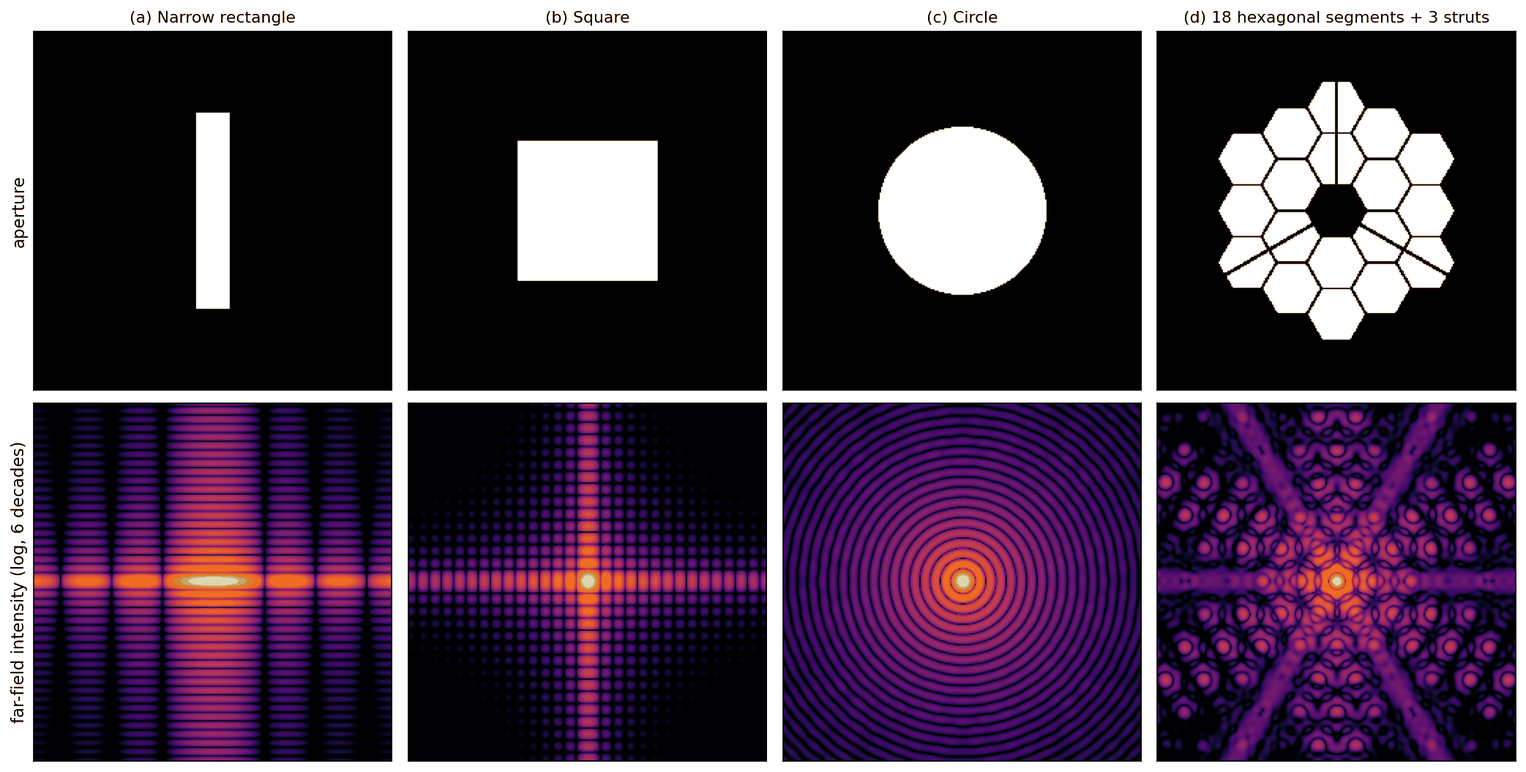
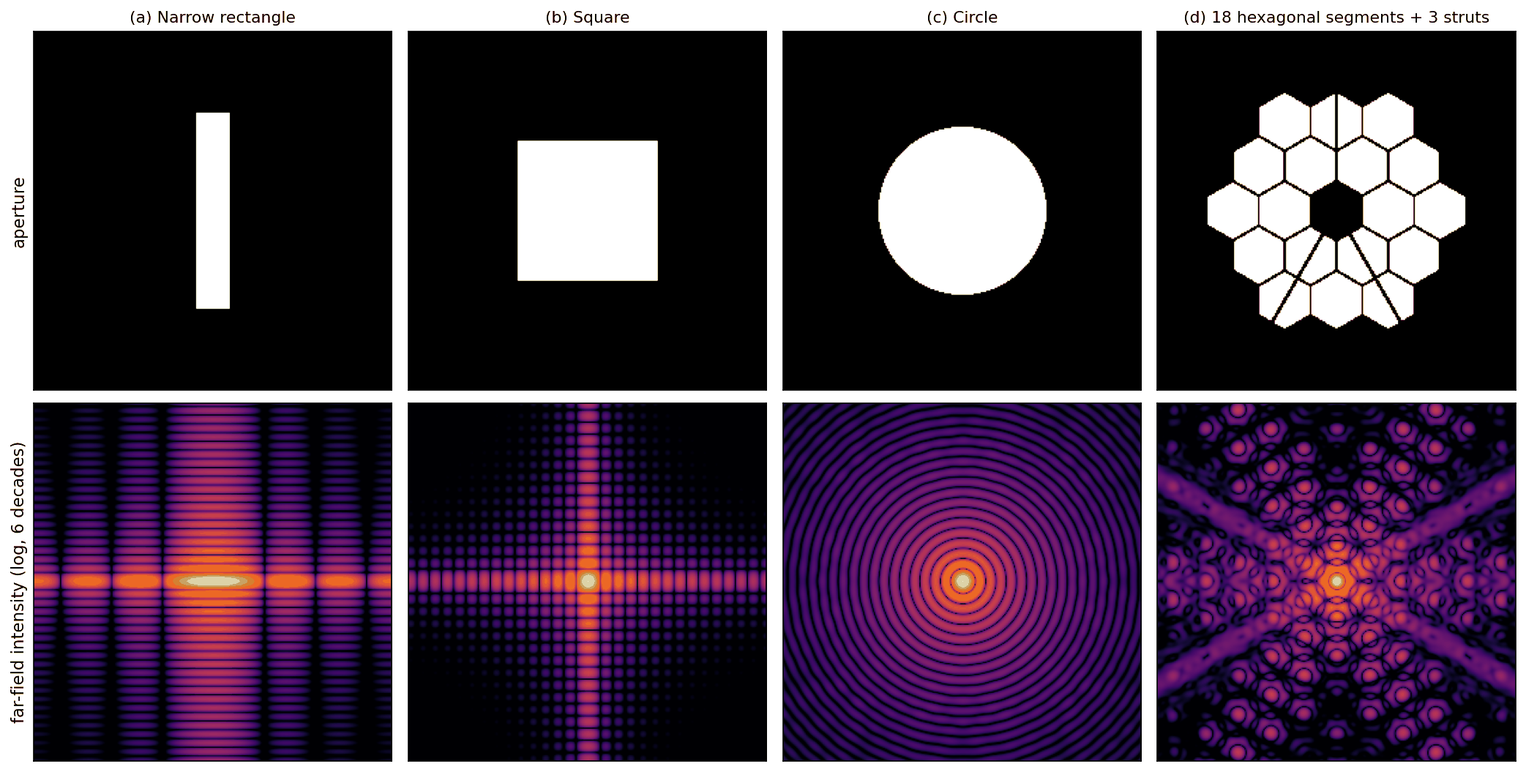
fix(post): wave-optics-diffraction — 점검 반영: 번역체·근거·그림, 그림 다시 생성
tech-writing-style 점검(2026-10-15) 반영:
- 번역체·어색한 문장 다듬기 (한·영)
- 그림·표와 맞지 않던 본문·캡션 서술 정정, 근거보다 넓던 결론을 실험 조건으로 한정
- 그림을 다시 그려야 하는 경미 항목은 따로 처리 예정
근거: _references/wave-optics-diffraction/audit-20261015.md (git 제외)

Changed region(s): [[0.7482, 0.5156, 0.9976, 1.0], [0.7794, 0.091, 0.9664, 0.455]]

diff --git a/_code/wave-optics-diffraction/generate_figures.py b/_code/wave-optics-diffraction/generate_figures.py
@@ -247,6 +247,19 @@ def figure4(L):
 
 # ------------------------------------------------------------------ 그림 5: 구멍 모양과 원거리 무늬
 
+def webb_pupil(n, strut_px=2.5):
+    """그림 6 사진과 같은 배치: 육각 조각의 윗변·아랫변이 수직(조각 배열을 90° 돌림), 받침대는 위로 하나, 아래 양쪽으로 둘."""
+    p = segmented_pupil(n, 17.5, gap_px=2.0, strut_px=0).T.astype(bool)
+    y, x = np.mgrid[:n, :n] - (n - 1) / 2
+    r = np.hypot(x, y)
+    for ang in (90, -120, -60):
+        a = np.radians(ang)
+        along = x * np.cos(a) + y * np.sin(a)
+        across = -x * np.sin(a) + y * np.cos(a)
+        p &= ~((along > 0) & (np.abs(across) < strut_px / 2) & (r < n / 2))
+    return p.astype(float)
+
+
 def figure5(L):
     n, pad = 256, 4
     y, x = np.mgrid[:n, :n] - (n - 1) / 2
@@ -254,7 +267,7 @@ def figure5(L):
         (((np.abs(x) <= 12) & (np.abs(y) <= 70)).astype(float), t(L, "(a) 가늘고 긴 직사각형", "(a) Narrow rectangle")),
         (((np.abs(x) <= 50) & (np.abs(y) <= 50)).astype(float), t(L, "(b) 정사각형", "(b) Square")),
         (circle_pupil(n, 60), t(L, "(c) 원", "(c) Circle")),
-        (segmented_pupil(n, 17.5, gap_px=2.0, strut_px=2.5), t(L, "(d) 육각 조각 18장 + 받침대 3개", "(d) 18 hexagonal segments + 3 struts")),
+        (webb_pupil(n), t(L, "(d) 육각 조각 18장 + 받침대 3개", "(d) 18 hexagonal segments + 3 struts")),
     ]
     fig, axes = plt.subplots(2, 4, figsize=(14, 7.2))
     for i, (p, title) in enumerate(shapes):

diff --git a/_posts/2026-12-05-wave-optics-diffraction-en.md b/_posts/2026-12-05-wave-optics-diffraction-en.md
@@ -17,7 +17,7 @@ Hang a coin-sized disk on a thread and light it with a small point source, and i
 <img src="/assets/img/posts/wave-optics-diffraction/ext-arago-spot.jpg" alt="Photograph of the bright spot (Arago spot) at the centre of a disk's shadow" width="460">
 _Figure 1. The shadow of a disk 5.8 mm in diameter. Sunlight was narrowed through a hole about 0.5 mm across to act as a point source, with 1.53 m from source to disk and 1.83 m from disk to the paper screen. The bright spot at the centre of the shadow is the Arago spot, and rainbow-coloured rings surround the shadow's edge. (Source: Aleksandr Berdnikov, [A photograph of the Arago spot](https://commons.wikimedia.org/wiki/File:A_photograph_of_the_Arago_spot.png), [CC BY-SA 4.0](https://creativecommons.org/licenses/by-sa/4.0))_
 
-The spot comes with a story. In 1818 the French Academy of Sciences ran a prize competition on diffraction. Fresnel (A. Fresnel) submitted a memoir that treated light as a wave and calculated diffraction. One of the judges, Poisson (S. D. Poisson), a supporter of the particle theory of light, drew a strange conclusion from Fresnel's theory. If the theory were right, he argued, the centre of a disk's shadow would have to be bright, which was absurd. Committee member Arago (F. Arago) did the experiment, and the spot was there. Fresnel won the prize, and the spot is now called the Arago spot or Poisson spot. Maraldi (G. F. Maraldi) had seen it about a century earlier, but the observation was forgotten [1, 2].
+The spot comes with a story. In 1818 the French Academy of Sciences ran a prize competition on diffraction. Augustin Fresnel submitted a memoir that treated light as a wave and calculated diffraction. One of the judges, Siméon Denis Poisson, a supporter of the particle theory of light, drew a strange conclusion from Fresnel's theory. If the theory were right, he argued, the centre of a disk's shadow would have to be bright, which was absurd. Committee member François Arago did the experiment, and the spot was there. Fresnel won the prize, and the spot is now called the Arago spot or Poisson spot. Giacomo Filippo Maraldi had seen it about a century earlier, but the observation was forgotten [1, 2].
 
 This post starts from that scene and answers three questions.
 
@@ -39,14 +39,14 @@ $$
 
 Here $U(Q)$ is the complex amplitude at a point $Q$ of the aperture, $r$ is the distance from $Q$ to the observation point $P$, $k = 2\pi/\lambda$, and $\theta$ is the angle between $QP$ and the aperture normal. In other words, each patch of the aperture sends out a small spherical wave $e^{ikr}/r$, and at the observation point all those arrows (the phasors of Part 1) are added up.
 
-The formula carries three things that are absent from Huygens' picture. First, $1/\lambda$: the strength of the secondary sources is inversely proportional to the wavelength. Second, $1/i$: the secondary sources lead the incident light in phase by 90° (with the time dependence taken as $$e^{-i\omega t}$$). Third, $\cos\theta$: the secondary sources radiate most strongly forward and weakly to the side. Fresnel assumed the obliquity factor to make his results fit, while $1/\lambda$ and the 90° phase were shown by Stokes (G. Stokes) in 1849 from consistency with energy conservation. In 1882 Kirchhoff (G. Kirchhoff) derived these factors together from the wave equation. His obliquity factor is $(1+\cos\theta)/2$; the $\cos\theta$ in the formula above is the Rayleigh–Sommerfeld one. The first two factors can be understood through one fact: the field seen from afar is proportional to the time derivative of the field in the aperture [3]. Differentiating a sine wave multiplies its amplitude by the frequency (hence $1/\lambda$) and advances its phase by 90°.
+The formula carries three things that are absent from Huygens' picture. First, $1/\lambda$: the strength of the secondary sources is inversely proportional to the wavelength. Second, $1/i$: the secondary sources lead the incident light in phase by 90° (with the time dependence taken as $$e^{-i\omega t}$$). Third, $\cos\theta$: the secondary sources radiate most strongly forward and weakly to the side. Fresnel assumed the obliquity factor to make his results fit, while $1/\lambda$ and the 90° phase were shown by George Gabriel Stokes in 1849 from consistency with energy conservation. In 1882 Gustav Kirchhoff derived these factors together from the wave equation. His obliquity factor is $(1+\cos\theta)/2$; the $\cos\theta$ in the formula above is the Rayleigh–Sommerfeld one. The first two factors can be understood through one fact: the field seen from afar is proportional to the time derivative of the field in the aperture [3]. Differentiating a sine wave multiplies its amplitude by the frequency (hence $1/\lambda$) and advances its phase by 90°.
 
-One point is worth pausing on. Nothing in the aperture actually emits light. The real cause is the charges oscillating at the edge of the screen. The Huygens–Fresnel principle is a convenient device that replaces their effect with fictitious sources over the aperture. Kirchhoff's formula has a weakness, its boundary conditions contradict each other, and the Rayleigh–Sommerfeld formula fixes it. The two differ only in the obliquity factor, $(1+\cos\theta)/2$ versus $\cos\theta$, and give the same answer at small angles [3]. For this theory, which treats light as a single scalar rather than a vector, to hold, the aperture must be much larger than the wavelength and we must look more than a few wavelengths away from it [3]. This post stays within that range.
+One point is worth pausing on. Nothing in the aperture actually emits light. The real cause is the charges oscillating at the edge of the screen. The Huygens–Fresnel principle is a convenient device that replaces their effect with fictitious sources over the aperture. Kirchhoff's formula has a weakness: its boundary conditions contradict each other. The Rayleigh–Sommerfeld formula fixes this. The two differ only in the obliquity factor, $(1+\cos\theta)/2$ versus $\cos\theta$, and give the same answer at small angles [3]. For this theory, which treats light as a single scalar rather than a vector, to hold, the aperture must be much larger than the wavelength and we must look more than a few wavelengths away from it [3]. This post stays within that range.
 
 What do we get if we actually carry out the integral? Figure 2 shows a 100 µm wide slit illuminated by a plane wave, with the intensity behind it calculated as a function of distance.
 
 <img src="/assets/img/posts/wave-optics-diffraction/en/fig2-slit-near-to-far.png" alt="Light spreading behind a 100 µm slit with distance, and intensity cross-sections at four distances" width="780">
-_Figure 2. Intensity behind a slit 100 µm wide (half-width a = 50 µm) illuminated by a 0.5 µm plane wave. (a) Side view out to 60 mm behind the slit; the white dashes are the geometric shadow boundary. (b)–(e) Cross-sections at distances where the Fresnel number $$N_F = a^2/\lambda z$$ is 10, 1, 0.5 and 0.1. Grey is the geometrical-optics answer, red is the diffraction calculation and the black dashes are the Fraunhofer approximation. Just behind the slit, ripples sit on the shape of the shadow; further away the shape turns into a sinc² pattern and widens._
+_Figure 2. Intensity behind a slit 100 µm wide (half-width a = 50 µm) illuminated by a 0.5 µm plane wave. (a) Side view out to 60 mm behind the slit (square root of intensity, corresponding to the amplitude); the white dashes are the geometric shadow boundary. (b)–(e) Cross-sections at distances where the Fresnel number $$N_F = a^2/\lambda z$$ is 10, 1, 0.5 and 0.1. Grey is the geometrical-optics answer, red is the diffraction calculation and the black dashes are the Fraunhofer approximation. Just behind the slit, ripples sit on the shape of the shadow; further away the shape turns into a sinc² pattern and widens._
 
 Figure 2 reads in three stages. Just behind the slit (b), the light keeps nearly the shape of the slit, with ripples only near the edges. A little further (c), the ripples from the edges spread to the middle and change the shape substantially. Far away (e), the light spreads much wider than the slit, and from then on it only grows in size without changing shape. The first two stages are called Fresnel diffraction and the last Fraunhofer diffraction. They are not different phenomena but the same integral seen at different distances [4].
 
@@ -87,13 +87,13 @@ Now consider the disk. The disk blocks the first few zones. The light on the axi
 
 Figure 3(c) calculates the same geometry as Figure 1. The disk covers about 18 zones ($N_F \approx 18$). The intensity at the centre of the shadow is 1.00 times the value without the disk, and the first dark ring of the spot has a radius of 0.13 mm on the screen. The spot in the photograph looks larger because the source hole (0.5 mm) is imaged as a 0.6 mm blur on the screen and sunlight contains many wavelengths. The bright fringes outside the shadow also come out of the calculation.
 
-Knowing the zones also lets us focus light without a lens. Cover all the even-numbered zones and leave only the odd ones open, and the contributions of the remaining zones all add in the same direction. This is called a zone plate, and Rayleigh (Lord Rayleigh) first conceived it in 1871 (in an unpublished note), with Soret (J. L. Soret) publishing it in 1875 [1]. Cut the zone radii as $r_m = \sqrt{m\lambda f}$ and a focus appears at distance $f = r_1^2/\lambda$. Each open zone adds an amplitude of 2, so opening 20 odd zones gives an amplitude of 40 and an intensity 1600 times larger (Figure 3(d)) [1]. The same plate also makes foci at $f/3$, $f/5$, $f/7$, …. Seen from distance $f/3$, each zone of the plate covers three zones at that distance; two of the three cancel and one remains. The on-axis intensity is therefore the same as at $f$, but the focus is narrower by the same factor and collects less energy. Because the focal length is inversely proportional to the wavelength, the chromatic aberration is also large. Even so, zone plates replace lenses in the X-ray region. At X-ray wavelengths the refractive index of matter is very close to 1, which makes refractive lenses hard to build.
+Knowing the zones also lets us focus light without a lens. Cover all the even-numbered zones and leave only the odd ones open, and the contributions of the remaining zones all add in the same direction. This is called a zone plate, and Lord Rayleigh first conceived it in 1871 (in an unpublished note), with Jacques-Louis Soret publishing it in 1875 [1]. Cut the zone radii as $r_m = \sqrt{m\lambda f}$ and a focus appears at distance $f = r_1^2/\lambda$. Each open zone adds an amplitude of 2, so opening 20 odd zones gives an amplitude of 40 and an intensity 1600 times larger (Figure 3(d)) [1]. The same plate also makes foci at $f/3$, $f/5$, $f/7$, …. Seen from distance $f/3$, each zone of the plate covers three zones at that distance; two of the three cancel and one remains. The on-axis intensity is therefore the same as at $f$, but the focus is narrower by the same factor and collects less energy. Because the focal length is inversely proportional to the wavelength, the chromatic aberration is also large. Even so, zone plates replace lenses in the X-ray region. At X-ray wavelengths the refractive index of matter is very close to 1, which makes refractive lenses hard to build.
 
 ## 3. Where exactly is the edge of a shadow?
 
 When a knife edge blocks half the light, where exactly is the boundary of its shadow? For anyone measuring the edge of an object in an image taken with coherent light, this is a practical question.
 
-A straight edge has no circular symmetry, so the zones are strips parallel to the edge rather than concentric circles. Chaining the strips' contributions gives the Cornu spiral of Figure 4(c), an S-shaped curve joining two eyes. The amplitude at an observation point is the length of the arrow from a point on the curve to the upper eye. As the observation point moves into the shadow, the starting point moves toward the upper eye and the arrow shortens. As it moves into the lit side, the starting point travels along the lower spiral and the arrow length rises and falls.
+A straight edge has no circular symmetry, so the zones are strips parallel to the edge rather than concentric circles. Chaining the strips' contributions gives the Cornu spiral of Figure 4(c), an S-shaped curve joining the two points it spirals into (the "eyes", the white circles in Figure 4(c)). The amplitude at an observation point is the length of the arrow from a point on the curve to the upper eye. As the observation point moves into the shadow, the starting point moves toward the upper eye and the arrow shortens. As it moves into the lit side, the starting point travels along the lower spiral and the arrow length rises and falls.
 
 <img src="/assets/img/posts/wave-optics-diffraction/en/fig4-straight-edge.png" alt="Intensity behind a knife edge, the curve rescaled by √(λz), and the Cornu spiral" width="780">
 _Figure 4. (a) Intensity at three distances behind a straight edge illuminated by a plane wave (0.5 µm). x = 0 is the geometric shadow boundary, and the negative side is the shadow. (b) Rescaling the horizontal axis to $w$, proportional to $\sqrt{\lambda z}$, makes the three curves collapse onto one. The intensity is 1/4 at the boundary and 1.37 at the first maximum. (c) The Cornu spiral. The amplitude at an observation point is the length of the arrow from the marked point to the upper eye (blue: boundary, red: first maximum, green: in the shadow, w = −1)._
@@ -102,7 +102,7 @@ Three things can be read from Figure 4. First, the intensity at the geometric bo
 
 The first fact has a direct practical use. When viewing an edge with coherent light, taking the edge where the intensity is half (50 %) shifts it away from the shadow. With coherent light the edge is where the amplitude is half, which is where the intensity is 1/4. The same happens when a lens forms the image with coherent illumination, whereas with incoherent illumination 50 % is correct. This difference returns in Part 4 on Fourier imaging. Methods for reading an edge in an image more precisely than a pixel are covered in [Metrology Image Processing 4](/en/posts/imgproc-edge-subpixel/). When applying them to a coherent image, the reference level has to be set again first.
 
-There is one more principle that pairs with the edge. Babinet (J. Babinet) pointed it out in 1837, and it concerns two screens that are each other's inverse, such as an aperture and an opaque screen of the same shape [2]. The diffraction integral is linear, so adding the fields made by each screen gives the unobstructed plane wave. In the Fraunhofer region the unobstructed plane wave gathers only at a single point (the geometrical image point) and is zero in all other directions. Outside that point, therefore, the fields of the two screens have the same magnitude and opposite sign. In other words, their intensity patterns are identical. This is Babinet's principle. In the Fresnel region only the sum of the fields holds, and the intensity patterns are not the same [1].
+There is one more principle that pairs with the edge. Jacques Babinet pointed it out in 1837, and it concerns two screens that are each other's inverse, such as an aperture and an opaque screen of the same shape [2]. The diffraction integral is linear, so adding the fields made by each screen gives the unobstructed plane wave. In the Fraunhofer region the unobstructed plane wave gathers only at a single point (the geometrical image point) and is zero in all other directions. Outside that point, therefore, the fields of the two screens have the same magnitude and opposite sign. In other words, their intensity patterns are identical. This is Babinet's principle. In the Fresnel region only the sum of the fields holds, and the intensity patterns are not the same [1].
 
 Thanks to this principle, the diameter of a hair or a thin wire can be measured with a single laser. Since it makes the same pattern as a slit of the same width, measuring the spacing of the zeros with the slit formula of the next section gives the diameter.
 
@@ -135,20 +135,20 @@ Here $\theta$ is the angle between the observation direction and the axis. The f
 Figure 5 calculates four aperture shapes and their far-field patterns.
 
 <img src="/assets/img/posts/wave-optics-diffraction/en/fig5-aperture-far-field.png" alt="A narrow rectangle, a square, a circle and a segmented hexagonal mirror aperture, with their far-field diffraction patterns" width="780">
-_Figure 5. Top row: apertures; bottom row: their far-field intensity (log scale, six decades). (a) A rectangle narrow in the horizontal direction spreads widely in the horizontal direction. (b) A square spreads in a cross perpendicular to its two pairs of sides. (c) A circle makes concentric rings. (d) An aperture made of 18 hexagonal segments and 3 secondary-mirror struts, like the Webb Space Telescope. Six spikes stand perpendicular to the three directions in which straight edges are most common, and the vertical strut adds a horizontal spike._
+_Figure 5. Top row: apertures; bottom row: their far-field intensity (log scale, six decades). (a) A rectangle narrow in the horizontal direction spreads widely in the horizontal direction. (b) A square spreads in a cross perpendicular to its two pairs of sides. (c) A circle makes concentric rings. (d) An aperture made of 18 hexagonal segments and 3 secondary-mirror struts, like the Webb Space Telescope. The segments are placed with their top and bottom edges horizontal. Thick spikes stand perpendicular to the hexagon's straight edges, that is, at ±30° from the horizontal._
 
 Two rules can be read from Figure 5. First, the pattern is wide in the direction in which the aperture is narrow (a). Second, a straight edge sends out a spike perpendicular to itself (b, d). The secondary sources lined up along a straight edge cancel each other in directions parallel to the edge, but not in the direction perpendicular to it. That is also why street lamps shine as stars in night photographs: the straight edges of the camera's aperture blades make the spikes.
 
 <img src="/assets/img/posts/wave-optics-diffraction/ext-webb-focused-star.jpg" alt="A star imaged by the Webb Space Telescope after mirror alignment, with eight diffraction spikes" width="640">
 _Figure 6. A star imaged by the Webb Space Telescope after it completed primary-mirror alignment (fine phasing) on 11 March 2022. The six thick spikes come from the straight edges of the hexagonal mirror segments, and the two thin horizontal spikes come from the vertical strut. (Source: NASA/STScI, [Webb's First Image of Focused Star](https://commons.wikimedia.org/wiki/File:Webb%27s_First_Image_of_Focused_Star_%28potm2203a%29.tiff), [CC BY 4.0](https://creativecommons.org/licenses/by/4.0))_
 
-Figure 6 is the real thing. Webb's eight spikes are made by the hexagonal mirror segments and the struts [6]. Compared with the calculation in Figure 5(d), the number and directions of the spikes match exactly: six perpendicular to the hexagon edges, and two horizontal ones perpendicular to the vertical strut. The two lower struts run parallel to hexagon edges, so they make no spikes of their own; theirs partly overlap the spikes from the hexagon edges. For astronomers, the shape of these spikes is a fingerprint of the telescope's aperture.
+Figure 6 is the real thing. Webb's eight spikes are made by the hexagonal mirror segments and the struts [6]. Figure 5(d) was calculated with the hexagons placed in the same orientation as in the photograph, so the thick spikes at ±30° from the horizontal stand in the same directions as in the photograph. The two thin horizontal spikes in the photograph are perpendicular to the vertical strut. The two lower struts run parallel to hexagon edges, so they make no spikes of their own; theirs partly overlap the spikes from the hexagon edges. For astronomers, the shape of these spikes is a fingerprint of the telescope's aperture.
 
 The link to Part 2 also appears here. The van Cittert–Zernike theorem said that the spatial degree of coherence is the Fourier transform of the source's brightness distribution. This section says that the far field is the Fourier transform of the aperture function. The same mathematics sets coherence on one side and diffraction patterns on the other. That is why the degree of coherence of a round star and the diffraction pattern of a round aperture are both $2J_1(x)/x$. The next section is about that round aperture.
 
 ## 5. How small a spot can a round aperture form?
 
-The apertures of telescopes and microscopes are usually round. What does the far-field pattern of a round aperture look like, and what does its size determine? Computing the Fourier transform of a circle gives the first-order Bessel function $J_1$. Airy (G. B. Airy) first obtained the result in 1835 [2].
+The apertures of telescopes and microscopes are usually round. What does the far-field pattern of a round aperture look like, and what does its size determine? Computing the Fourier transform of a circle gives the first-order Bessel function $J_1$. George Biddell Airy first obtained the result in 1835 [2].
 
 $$
 I(\theta) = I_0\left[\frac{2J_1(x)}{x}\right]^2,\qquad x = \frac{\pi D\sin\theta}{\lambda}
@@ -160,7 +160,7 @@ $$
 \sin\theta_1 = 1.22\,\frac{\lambda}{D}
 $$
 
-In other words, it is 22 % larger than the slit's $\lambda/b$. A circle narrows toward its edge, so it behaves like an effectively narrower aperture than a slit of the same width. When a lens forms this pattern in its focal plane, the angle becomes a distance and the radius of the first ring becomes $1.22\lambda f/D$. Figure 7 is a real pattern.
+This is 22 % larger than the slit's $\lambda/b$. A circle narrows toward its edge, so it behaves like an effectively narrower aperture than a slit of the same width. When a lens forms this pattern in its focal plane, the angle becomes a distance and the radius of the first ring becomes $1.22\lambda f/D$. Figure 7 is a real pattern.
 
 <img src="/assets/img/posts/wave-optics-diffraction/ext-pinhole-airy.jpg" alt="Photograph of the Airy pattern of a 0.09 mm pinhole illuminated by a red laser" width="600">
 _Figure 7. The Airy pattern of a 0.09 mm diameter pinhole illuminated by a red laser, photographed 65 mm behind it. The exposure saturates the central disk so that dozens of outer rings show. The photograph is 17.3 mm wide. (Source: Bautsch, [Beugungsscheibchen.k.720](https://commons.wikimedia.org/wiki/File:Beugungsscheibchen.k.720.jpg), [CC0](https://creativecommons.org/publicdomain/zero/1.0/deed.en))_
@@ -200,7 +200,7 @@ Here $N = f/D$ is the f-number. In other words, the depth of focus is proportion
 
 ## 6. What changes when there are many slits?
 
-Hold a CD in sunlight and you see a rainbow (Figure 9). The information-bearing track on a CD's surface is wound in a tight spiral. Neighbouring turns of the track act like many slits placed side by side. What changes when there are many slits?
+Shine white light on a CD and you see a rainbow (Figure 9). The information-bearing track on a CD's surface is wound in a tight spiral. Neighbouring turns of the track act like many slits placed side by side. What changes when there are many slits?
 
 <img src="/assets/img/posts/wave-optics-diffraction/ext-cd-rainbow.jpg" alt="Rainbow-coloured rings made by light reflected from a CD and split by wavelength" width="460">
 _Figure 9. Diffraction from the surface of a CD. The closely spaced track acts as a reflection grating and sends white light to different angles by wavelength. (Source: Hapecko, [CD rainbow](https://commons.wikimedia.org/wiki/File:CD_rainbow.jpg), [CC BY-SA 4.0](https://creativecommons.org/licenses/by-sa/4.0))_
@@ -230,9 +230,9 @@ $$
 \frac{\lambda}{\Delta\lambda} = mN
 $$
 
-In other words, the resolving power is the product of the diffraction order and the number of illuminated lines. The sodium D lines are 0.597 nm apart, so $\lambda/\Delta\lambda \approx 987$. In the second order, 494 lines are enough [1]. Figure 10(b) shows this. With 400 lines ($mN$ = 800) the two lines form one lump; with 600 lines ($mN$ = 1200) they split in two. A grating 15 cm long with 90,000 lines has $mN$ = 180,000 in the second order and resolves two lines 0.003 nm apart near 540 nm [1]. Where the Fabry–Pérot of Part 1 overlapped beams bouncing hundreds of times off highly reflective mirrors, the grating does the same with tens of thousands of slits side by side. The Fourier transform spectroscopy of Part 2 obtained its resolution by scanning a long path difference. All three are alike in that the resolution is set by how long a path difference the interfering light spans. For a grating that path difference is the one between light from its two ends, $Nd(\sin\theta_m - \sin\theta_i)$. On the way in and on the way out it cannot exceed the grating width $W$, so this value cannot be longer than $2W$, and the resolving power cannot exceed $2W/\lambda$ [2].
+In other words, the resolving power is the product of the diffraction order and the number of illuminated lines. The sodium D lines are 0.597 nm apart, so $\lambda/\Delta\lambda \approx 987$. In the second order, 494 lines are enough [1]. Figure 10(b) shows this. With 400 lines ($mN$ = 800) the two lines form one lump; with 600 lines ($mN$ = 1200) they split in two. A grating 15 cm long with 90,000 lines has $mN$ = 180,000 in the second order and resolves two lines 0.003 nm apart near 540 nm [1]. Where the Fabry–Pérot of Part 1 overlapped beams bouncing hundreds of times off highly reflective mirrors, the grating does the same with tens of thousands of slits side by side. The Fourier transform spectroscopy of Part 2 obtained its resolution by scanning a long path difference. All three are alike in that the resolution is set by how long a path difference the interfering light spans. For a grating that path difference is the one between light from its two ends, $$Nd(\sin\theta_m - \sin\theta_i)$$. The path difference on the way in, $$Nd\sin\theta_i$$, and on the way out, $$Nd\sin\theta_m$$, cannot each exceed the grating width $W$, so the total cannot exceed $2W$. The resolving power therefore cannot exceed $2W/\lambda$ [2].
 
-Gratings have their price too. Higher orders give better resolution, but the $m$-th order of wavelength $\lambda$ and the $(m+1)$-th order of wavelength $\lambda m/(m+1)$ overlap at the same angle. The wavelength range free of overlap (the free spectral range) is $\lambda/m$ [1]. And most of the light goes into the useless zeroth order. Calculating the efficiency of thin gratings, an amplitude grating whose transmittance varies sinusoidally sends at most 6.25 % into the first order, while a phase grating that varies only the phase sinusoidally sends at most 33.8 % [3]. Practical gratings therefore cut the grooves into a sawtooth profile to steer light into the desired order. This is called blazing. The idea of pulling energy out of the zeroth order came from Rayleigh in 1888, and Wood (R. W. Wood) actually ruled such gratings in 1910 [1].
+Gratings have their price too. Higher orders give better resolution, but the $m$-th order of wavelength $\lambda$ and the $(m+1)$-th order of wavelength $\lambda m/(m+1)$ overlap at the same angle. The wavelength range free of overlap (the free spectral range) is $\lambda/m$ [1]. And most of the light goes into the useless zeroth order. Calculating the efficiency of thin gratings, an amplitude grating whose transmittance varies sinusoidally sends at most 6.25 % into the first order, while a phase grating that varies only the phase sinusoidally sends at most 33.8 % [3]. Practical gratings therefore cut the grooves into a sawtooth profile to steer light into the desired order. This is called blazing. The idea of pulling energy out of the zeroth order came from Rayleigh in 1888, and Robert W. Wood actually ruled such gratings in 1910 [1].
 
 ## 7. How is diffraction computed?
 
@@ -257,7 +257,7 @@ $$
 H(f_x, f_y) = \exp\!\left(i 2\pi z\sqrt{\frac{1}{\lambda^2} - f_x^2 - f_y^2}\right)
 $$
 
-Here $f_x, f_y$ are spatial frequencies. Components with a positive quantity under the square root change only in phase and keep their magnitude. For a negative quantity the exponent becomes real and the magnitude shrinks (Figure 11(c)). In other words, free space is a filter that passes only spatial frequencies up to $1/\lambda$. Under normal-incidence illumination, information in patterns with periods shorter than the wavelength vanishes before travelling even one wavelength from the object, and a lens far from the object cannot see such periods. Under oblique illumination the illumination frequency adds to that of the object pattern, so periods down to $\lambda/2$ still propagate. This is the fundamental limit of resolution, roughly $\lambda/2$ [3]. The $\lambda/D$ limit of Section 5 arises because the lens accepts only some of these plane waves, and this limit remains even if the lens accepts every direction and the illumination is oblique. Getting past it requires bringing a probe closer to the object than a wavelength to pick up the evanescent waves directly. Near-field microscopes do exactly that [3, 4].
+Here $f_x, f_y$ are spatial frequencies. Components with a positive quantity under the square root change only in phase and keep their magnitude. For a negative quantity the exponent becomes real and the magnitude shrinks (Figure 11(c)). In other words, free space is a filter that passes only spatial frequencies up to $1/\lambda$. Under normal-incidence illumination, information in patterns with periods shorter than the wavelength vanishes before travelling even one wavelength from the object, and a lens far from the object cannot see such periods. Under oblique illumination the illumination frequency adds to that of the object pattern, so periods down to $\lambda/2$ still propagate. This is the fundamental limit of resolution, roughly $\lambda/2$ [3]. The $\lambda/D$ limit of Section 5 arises because the lens accepts only some of these plane waves, and the $\lambda/2$ limit remains even if the lens accepts every direction and the illumination is oblique. Getting past it requires bringing a probe closer to the object than a wavelength to pick up the evanescent waves directly. Near-field microscopes do exactly that [3, 4].
 
 Treating $f$ as small in the transfer function's square root and keeping the binomial expansion to the second term gives $e^{ikz}\exp[-i\pi\lambda z(f_x^2+f_y^2)]$. This is the same as the Fresnel approximation of Section 4 [3]. In other words, the Fresnel approximation is a paraxial approximation that handles only small angles. So as long as the angles are small, it works well even close to the aperture, regardless of how large $N_F$ is. For a 1 cm radius aperture, a 1 m distance and 0.5 µm light, $N_F$ = 200, yet the error of the Fresnel approximation is negligible [4].
 
@@ -275,7 +275,7 @@ In summary: near and at large angles, use the angular spectrum method; far and a
 - Seen through Fresnel zones, the axis behind a circular hole is four times brighter when an odd number of zones is open and dark when an even number is. The centre of a disk's shadow is as bright as without the disk (the Arago spot). Keeping only the odd zones makes a lens called a zone plate.
 - At a straight edge in coherent light the intensity at the geometric boundary is 1/4, and the fringe width is proportional to $\sqrt{\lambda z}$. In a coherent image the edge is taken at 25 %, not 50 %.
 - The far pattern is the Fourier transform of the aperture function. It spreads widely in the narrow direction, and straight edges send spikes perpendicular to themselves.
-- A circular aperture makes the Airy pattern. The first dark ring is at $1.22\lambda/D$ and encloses 84 % of the energy. This is the yardstick for the resolution of telescopes and microscopes (the Rayleigh criterion). The depth of focus is $\pm 2\lambda N^2$.
+- A circular aperture makes the Airy pattern. The first dark ring is at $1.22\lambda/D$ and encloses 84 % of the energy. This $1.22\lambda/D$ is the yardstick for the resolution of telescopes and microscopes (the Rayleigh criterion). The depth of focus is $\pm 2\lambda N^2$.
 - A grating is the product of one slit's diffraction and $N$ slits' interference. Its resolving power is $mN$, and blazing gathers light into the desired order.
 - Every field is a sum of plane waves. A component of period $\Lambda$ travels at $\sin\theta = \lambda/\Lambda$, and components with $\Lambda < \lambda$ die out as evanescent waves. Free space is a filter with bandwidth $1/\lambda$.
 
